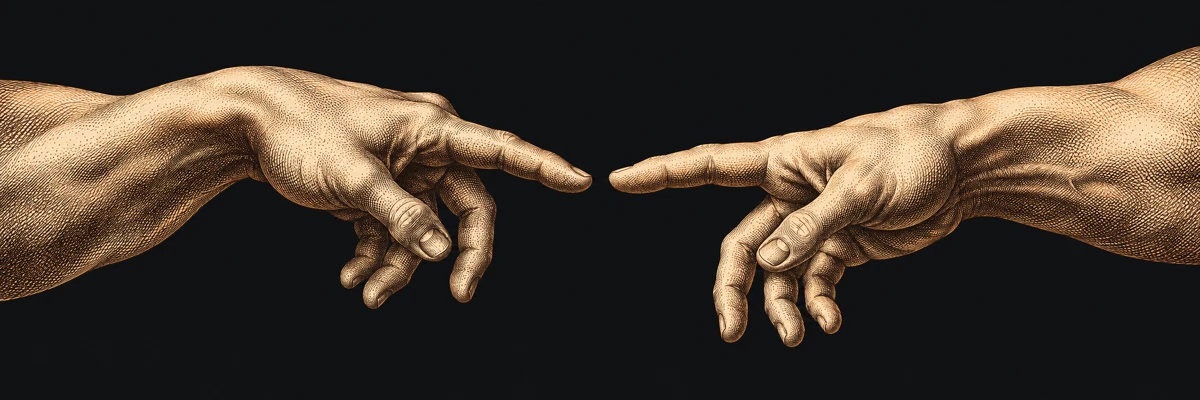
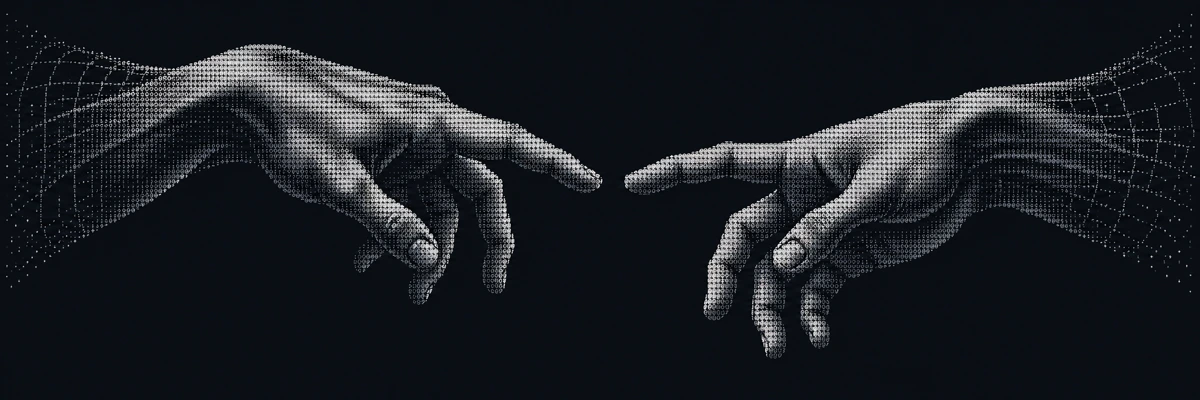
docs(profile): add ASCII world and a more personal voice

diff --git a/scripts/verify-readme.py b/scripts/verify-readme.py
@@ -32,7 +32,7 @@ if (stream['width'], stream['height'], int(stream['nb_frames'])) != (960, 320, 3
     raise SystemExit(f'Unexpected hero encoding: {stream}')
 
 asset_bytes = sum(path.stat().st_size for path in (root / 'assets').iterdir())
-if asset_bytes >= 600_000:
+if asset_bytes >= 900_000:
     raise SystemExit(f'Asset budget exceeded: {asset_bytes}')
 for obsolete in ['example.com', 'healthcare', 'reciprocal']:
     if obsolete in readme.lower():

diff --git a/README.md b/README.md
@@ -1,86 +1,88 @@
 <p align="left">
   <picture>
     <source media="(prefers-reduced-motion: reduce)" srcset="assets/creation-of-adam.webp">
-    <img src="assets/creation-of-adam.gif" width="100%" alt="Two engraved hands reaching toward each other, with a small gap between their fingertips. The complete pose is visible from the first frame.">
+    <img src="assets/creation-of-adam.gif" width="100%" alt="Two ASCII-style hands reaching toward each other, with a small gap between their fingertips. The complete pose is visible from the first frame.">
   </picture>
 </p>
 
 <picture>
   <source media="(prefers-color-scheme: dark)" srcset="assets/masthead-dark.svg">
-  <img src="assets/masthead-light.svg" width="100%" alt="Natnael Tezazu. From strange ideas to working systems.">
+  <img src="assets/masthead-light.svg" width="100%" alt="Natnael Tezazu. A little curious. Always building.">
 </picture>
 
-**Full-stack & AI systems engineer · Addis Ababa, Ethiopia · UTC+3**
+**I build apps, tools, and AI systems. Based in Addis Ababa, Ethiopia.**
 
 [Portfolio](https://natnaeltezazu.pro.et) &nbsp; / &nbsp; [LinkedIn](https://www.linkedin.com/in/natnael-tezazu) &nbsp; / &nbsp; [Email](mailto:natnaeltezazu01@gmail.com)
 
 ---
 
-### A little about the builder
+### Hey, I’m Natnael.
 
-I’m Natnael, a software builder and technical co-founder based in Ethiopia. I turn difficult, unusual ideas into useful software—from enterprise operations and browser-based tools to AI runtimes and offline-first Android apps.
+I like taking strange ideas and finding out if I can make them work. Sometimes that means an app. Sometimes it’s a tool that saves someone a few hours. Sometimes it turns into a much bigger project than I expected.
 
-I care about what happens **after the demo**: when connectivity disappears, data gets messy, or a model suggests something it shouldn’t be allowed to do. My approach is simple: keep the architecture understandable, make important decisions predictable, and build in a way that can be checked.
+I work across web, mobile, and AI. I care about the boring parts too: keeping data safe, handling mistakes, and making sure things still work when the internet doesn’t.
 
-### Selected work
+<p><img src="assets/workshop-world.webp" width="100%" alt="An ASCII-style workshop in the mountains: astronauts coding, growing a plant, floating near a star, and resting on a moon; a helpful robot, a layered handheld computer, and a solar-powered field station."></p>
+
+### A few things I’ve built
 
 <table>
   <tr>
     <td width="50%" valign="top">
       <a href="https://github.com/Natnael-Dev/teragrant-agent"><img src="assets/teragrant.webp" width="100%" alt="TeraGrant multimodal grant-intake system — portfolio preview"></a>
       <h3><a href="https://github.com/Natnael-Dev/teragrant-agent">TeraGrant</a></h3>
-      <p>Voice and document evidence into grant applications. Preserves field provenance and contradictions, with deterministic eligibility and scoring rules.</p>
+      <p>Helps small businesses turn voice notes and documents into grant applications. Keeps track of where facts came from and flags missing or conflicting details.</p>
       <p><sub>Python · FastAPI · Gemini · SQLite audit trail</sub></p>
-      <p><a href="https://github.com/Natnael-Dev/teragrant-agent">Explore the architecture &amp; code</a></p>
+      <p><a href="https://github.com/Natnael-Dev/teragrant-agent">See how it works</a></p>
     </td>
     <td width="50%" valign="top">
       <a href="https://github.com/Natnael-Dev/AgentHelm"><img src="assets/agenthelm.webp" width="100%" alt="AgentHelm mission-control interface — portfolio preview"></a>
       <h3><a href="https://github.com/Natnael-Dev/AgentHelm">AgentHelm</a></h3>
-      <p>Mission control for AI coding agents. Isolated workspaces, shell-policy checks, and execution telemetry.</p>
+      <p>A control room for AI coding agents. See what they’re doing, keep their work separate, and check commands before they run.</p>
       <p><sub>AI runtimes · Git worktrees · WebSockets</sub></p>
-      <p><a href="https://github.com/Natnael-Dev/AgentHelm">Explore the code</a></p>
+      <p><a href="https://github.com/Natnael-Dev/AgentHelm">See the code</a></p>
     </td>
   </tr>
   <tr>
     <td width="50%" valign="top">
       <a href="https://github.com/Natnael-Dev/SignalIntel"><img src="assets/signalintel.webp" width="100%" alt="SignalIntel broadcast-intelligence dashboard — portfolio preview"></a>
       <h3><a href="https://github.com/Natnael-Dev/SignalIntel">SignalIntel</a></h3>
-      <p>Live broadcasts into searchable signals. Speech transcription, on-screen text, semantic search, and alerts.</p>
+      <p>Follows live broadcasts, turns speech and on-screen text into searchable notes, and sends alerts when something matters.</p>
       <p><sub>Python · Rust · Whisper · Qdrant</sub></p>
-      <p><a href="https://github.com/Natnael-Dev/SignalIntel">Explore the code</a></p>
+      <p><a href="https://github.com/Natnael-Dev/SignalIntel">See the code</a></p>
     </td>
     <td width="50%" valign="top">
       <a href="https://github.com/Natnael-Dev/crafthub-marketplace"><img src="assets/crafthub.svg" width="100%" alt="CraftHub architecture: vendor isolation, financial ledger, and event outbox"></a>
       <h3><a href="https://github.com/Natnael-Dev/crafthub-marketplace">CraftHub</a></h3>
-      <p>A multi-vendor marketplace built around tenant isolation, stock concurrency, financial ledgers, and reliable events.</p>
+      <p>A marketplace for multiple sellers. Keeps each shop’s data separate and handles stock, orders, and payments without mixing things up.</p>
       <p><sub>Next.js · TypeScript · PostgreSQL · Drizzle</sub></p>
-      <p><a href="https://github.com/Natnael-Dev/crafthub-marketplace">Explore the code</a></p>
+      <p><a href="https://github.com/Natnael-Dev/crafthub-marketplace">See the code</a></p>
     </td>
   </tr>
 </table>
 
-### How I build
+### What I work with
 
-| The work | Tools & practices |
+| For | My usual tools |
 | :--- | :--- |
-| **Interfaces people can use** | TypeScript, React, Next.js, Tailwind CSS |
-| **Systems with clear boundaries** | Python, Node.js, Rust, APIs, WebSockets |
-| **Data that stays consistent** | PostgreSQL, row-level security, SQLite, Redis |
-| **AI with engineering around it** | Speech models, OCR, vector search, deterministic checks |
-| **Software beyond a connection** | Kotlin, Compose, Flutter, local storage, synchronization |
+| Web apps | TypeScript, React, Next.js, Tailwind CSS |
+| Backends & tools | Python, Node.js, Rust |
+| Data | PostgreSQL, SQLite, Redis |
+| AI projects | Speech models, OCR, vector search |
+| Mobile & offline apps | Kotlin, Compose, Flutter |
 
-### Beyond the repositories
+### Outside these repos
 
-I co-founded **Ethiosk**, a research-panel and survey project, and worked on the **Addis Mesob** enterprise operations platform. My portfolio brings together the architecture, case studies, and supporting evidence behind that work.
+I also co-founded **Ethiosk**, a research and survey project, and helped build software for **Addis Mesob**. There’s more about that work, and how I got here, on my portfolio.
 
-[Read the story & view the evidence](https://natnaeltezazu.pro.et/#about)
+[A bit more about me](https://natnaeltezazu.pro.et/#about)
 
 ---
 
 ### Let’s build something useful.
 
-Have a product, a difficult workflow, or an unusual idea in mind? [Send me a note](mailto:natnaeltezazu01@gmail.com).
+Got an idea, a project, or just want to say hi? [Send me a note](mailto:natnaeltezazu01@gmail.com).
 
 [natnaeltezazu.pro.et](https://natnaeltezazu.pro.et) &nbsp; / &nbsp; [LinkedIn](https://www.linkedin.com/in/natnael-tezazu) &nbsp; / &nbsp; [GitHub](https://github.com/Natnael-Dev)
 
-<sub>Built in Addis Ababa. Thinking beyond the demo.</sub>
+<sub>Made in Addis Ababa. Still learning. Still building.</sub>

diff --git a/docs/README-DESIGN.md b/docs/README-DESIGN.md
@@ -2,9 +2,11 @@
 
 ## Direction
 
-Renaissance Workshop artwork with Digital Museum restraint: engraved hands,
-an editorial masthead, a small maker's mark, readable native Markdown, and
-real projects. No remote badges, invented statistics, or typing services.
+ASCII hands with pixel, point-cloud, and wireframe details. A supporting moon
+workshop combines the coding astronaut, drifter, grower, dreamer, CRT desk,
+helpful robot, exploded device, and mountain field station into one scene.
+The name uses plain sans-serif type; the body uses short, conversational English.
+Project facts and the substantial four-project showcase are retained.
 
 The hands load fully formed, nearly touching with a small visible gap. The
 animation only breathes gently in luminance; it never closes the gap. The
@@ -31,7 +33,7 @@ No benchmark, contribution count, or completion claim is reproduced here.
 
 ## Assets
 
-The engraving is an original generated interpretation of the classical
+The ASCII-style artwork is an original interpretation of the classical
 reaching-hands composition. `assets/creation-of-adam.webp` is the saved source.
 The mastheads are editable SVG, with no scripts, embedded fonts, or network
 dependencies. The README keeps descriptions and links as accessible text.
